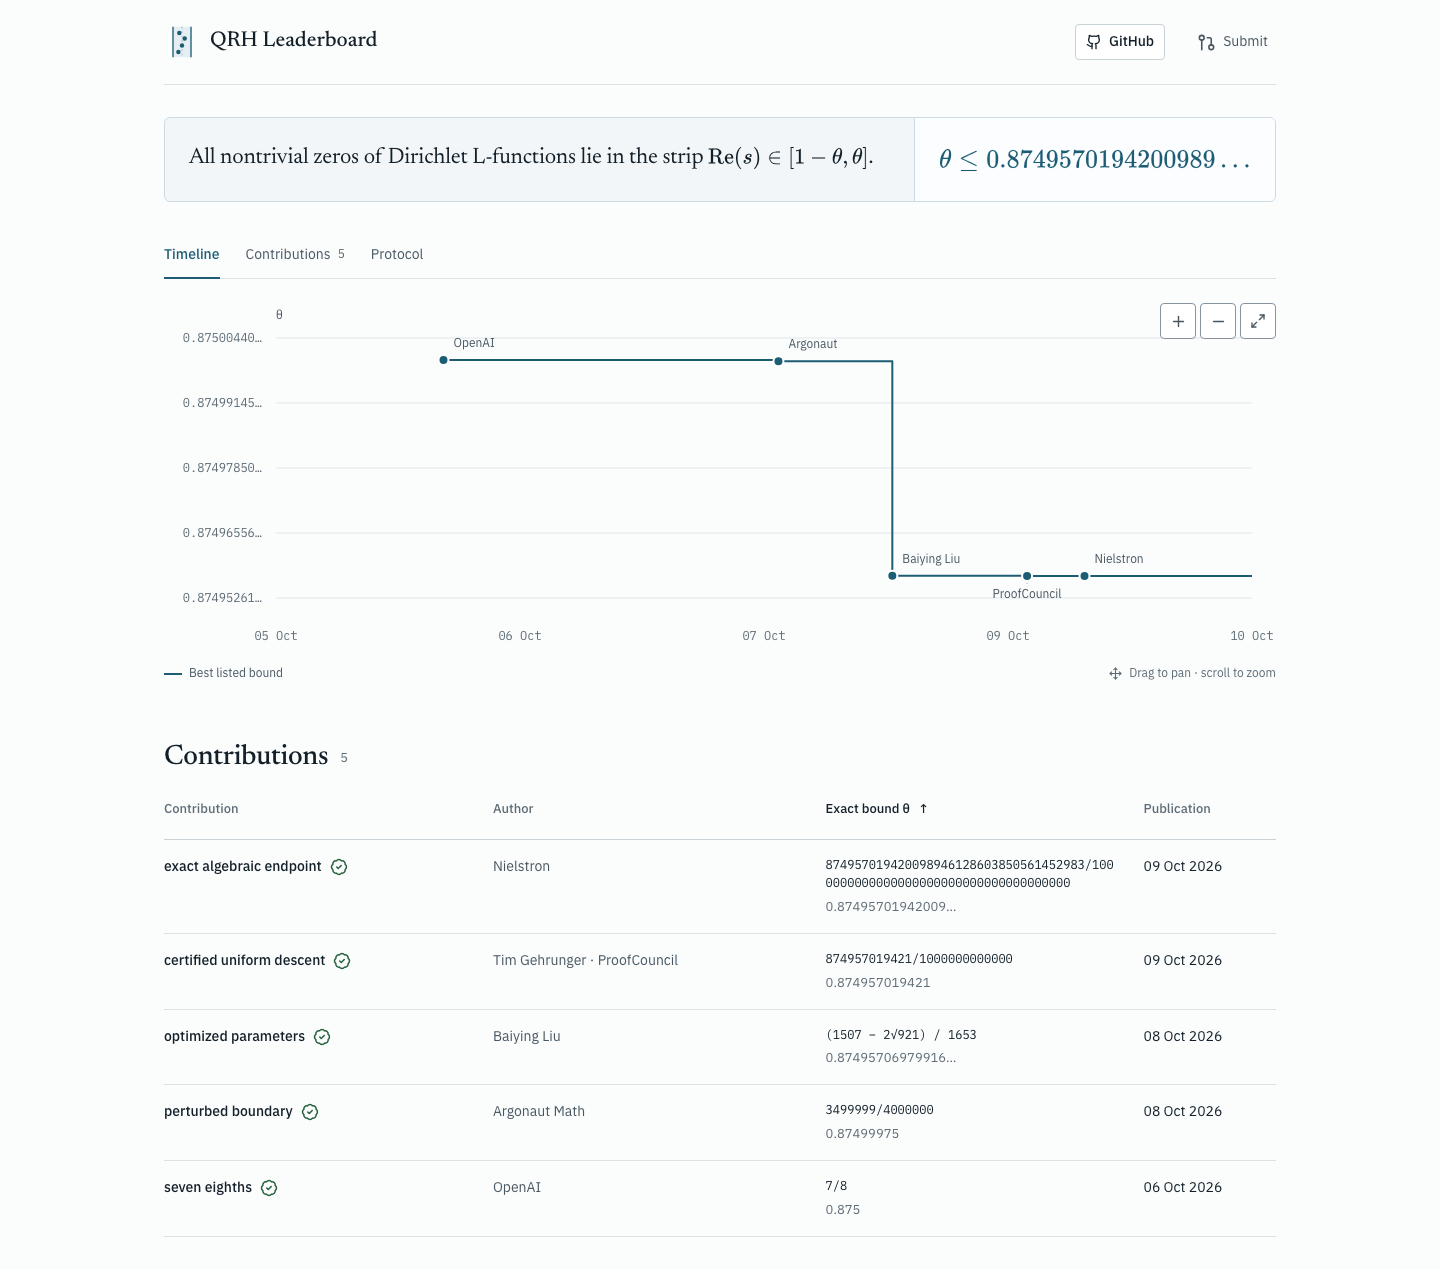
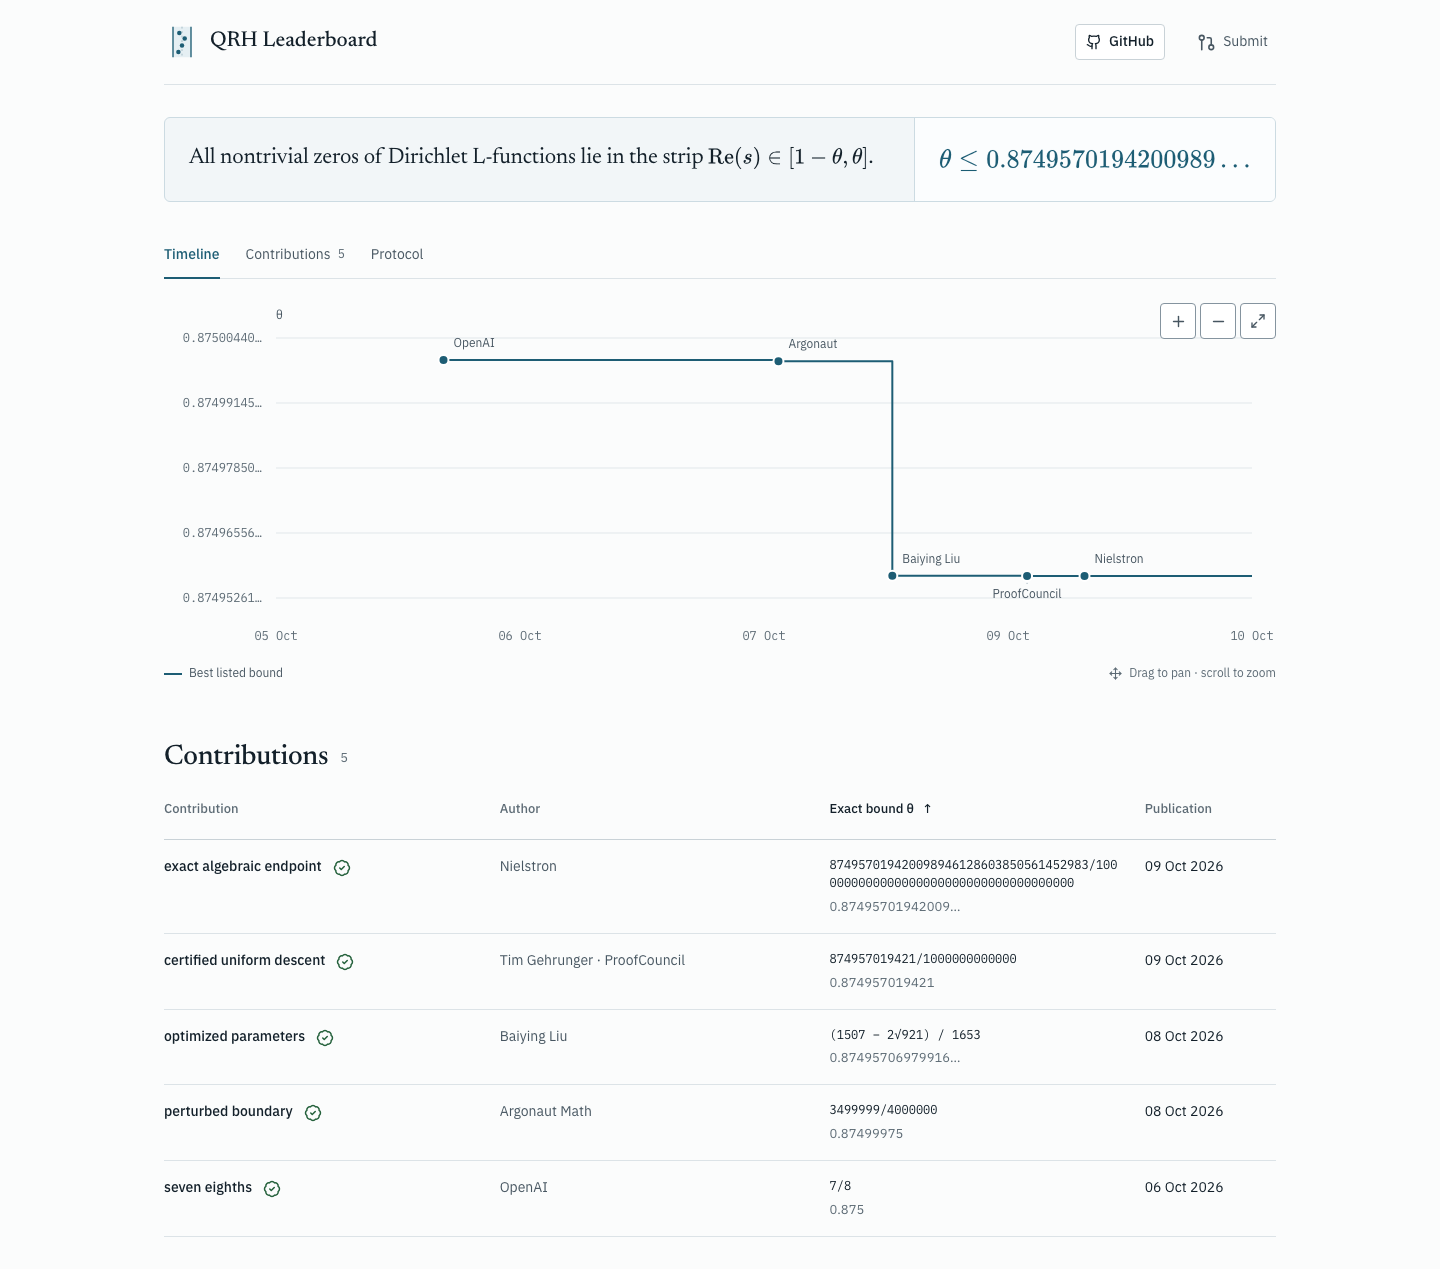
Link verification badges to protocol

diff --git a/src/App.tsx b/src/App.tsx
@@ -352,12 +352,14 @@ export default function App() {
                                   >
                                     {contributionTitle(r)}
                                   </button>
-                                  <span
+                                  <button
                                     className={
                                       "tag verification-badge " +
                                       (verifiedHere(r) ? "teal" : "amber")
                                     }
                                     title={statusLabel(r)}
+                                    aria-label={`Read verification protocol for ${contributionTitle(r)}`}
+                                    onClick={() => setTab("Protocol")}
                                   >
                                     {verifiedHere(r) ? (
                                       <BadgeCheck
@@ -370,7 +372,7 @@ export default function App() {
                                     <span className="sr-only">
                                       {statusLabel(r)}
                                     </span>
-                                  </span>
+                                  </button>
                                 </div>
                               </td>
                               <td data-label="Author" className="author-cell">

diff --git a/src/styles.css b/src/styles.css
@@ -575,7 +575,13 @@ th[aria-sort="descending"] {
 .verification-badge {
   flex-shrink: 0;
   align-self: start;
-  padding-top: 2px;
+  min-width: 24px;
+  min-height: 24px;
+  justify-content: center;
+  padding: 2px 0;
+}
+.verification-badge:hover {
+  background: #e5eff3;
 }
 .verification-badge::before {
   display: none;
